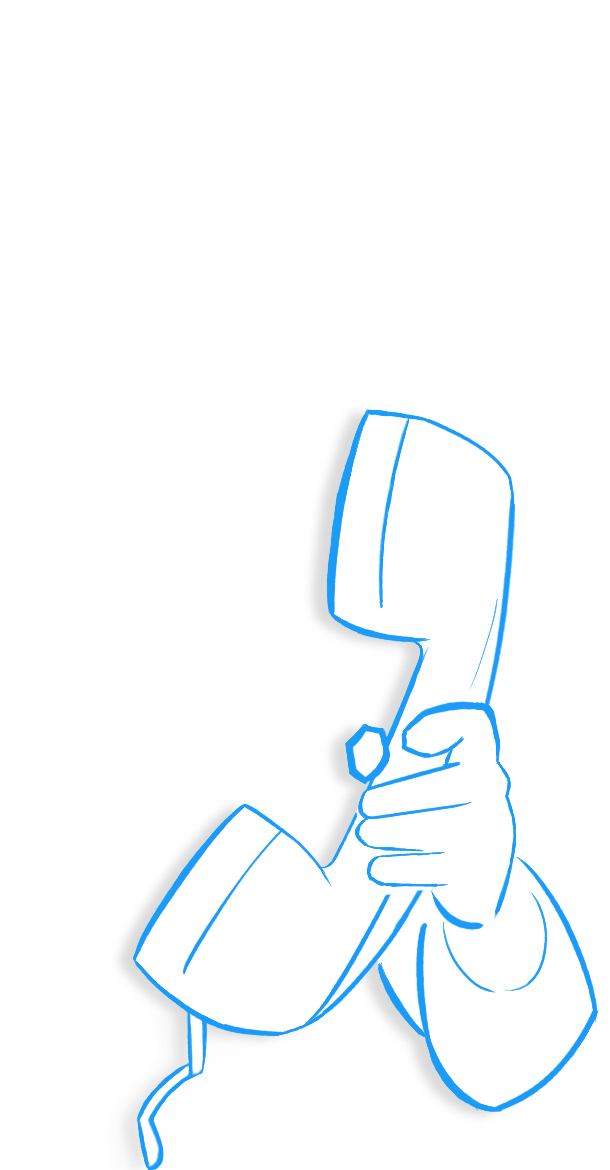
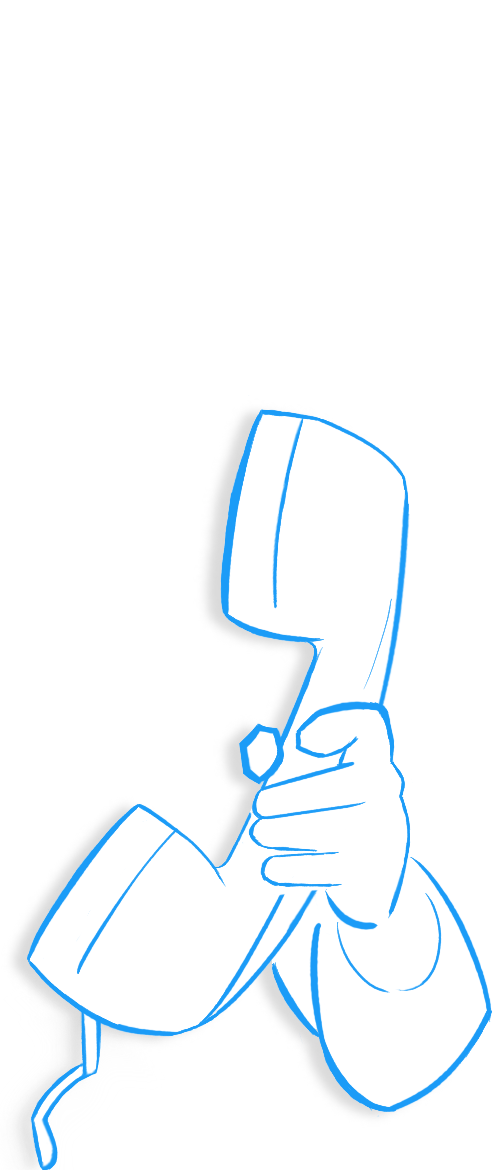
Bit more responsive with phone images.

Changed region(s): [[0.0298, 0.3385, 0.9821, 1.0], [0.3274, 0.7692, 0.3571, 0.8], [0.2976, 0.8, 0.3274, 0.8308]]

diff --git a/wp-content/themes/ddbz/style.css b/wp-content/themes/ddbz/style.css
@@ -39,8 +39,9 @@ body {
   color: var(--gkblue);
   display: grid;
   height: 100vh;
-  grid-template-columns: 2fr minmax(300px, 5fr) 2fr;
+  grid-template-columns: 2fr 2em minmax(300px, 5fr) 2em 2fr;
   grid-template-rows: 50px 1fr 50px;
+  overflow-x: hidden;
   //grid-gap: 20px;
 }
 
@@ -146,36 +147,44 @@ footer p {
 }
 
 .sidebar-left {
-  grid-column: 1;
+  grid-column: 1 / 3;
+  grid-row: 2 / 3;
   align-self: end;
   justify-self: end;
+  z-index: 1;
+  //overflow: hidden;
 }
 
 .hello {
-  max-height: 60vh;
+  height: 60vh;
   width: auto;
-  position: relative;
-  right: -2em;
 }
 
-.jargon {
-  //width: 100%;
-  position: relative;
-  left: -5em;
+/* -- Seriously... these aren't even being used? */
+.phone {
+  object-fit: cover;
+  object-position: right bottom;
 }
 
 .sidebar-right {
+  grid-column: 4 / -1;
+  grid-row: 2 / 3;
   align-self: end;
   justify-self: start;
+  z-index: 1;
+  //overflow: hidden;
 }
 
 .content {
+  grid-column: 2 / -2;
+  grid-row: 2 / 3;
   font-size: 1.2em;
   height: calc(vh - 100px);
   padding: 0 1.5em 0 1.5em;
   border-left: var(--border);
   border-right: var(--border);
   overflow: auto;
+  //z-index: -1;
 }
 
 .tiles {
